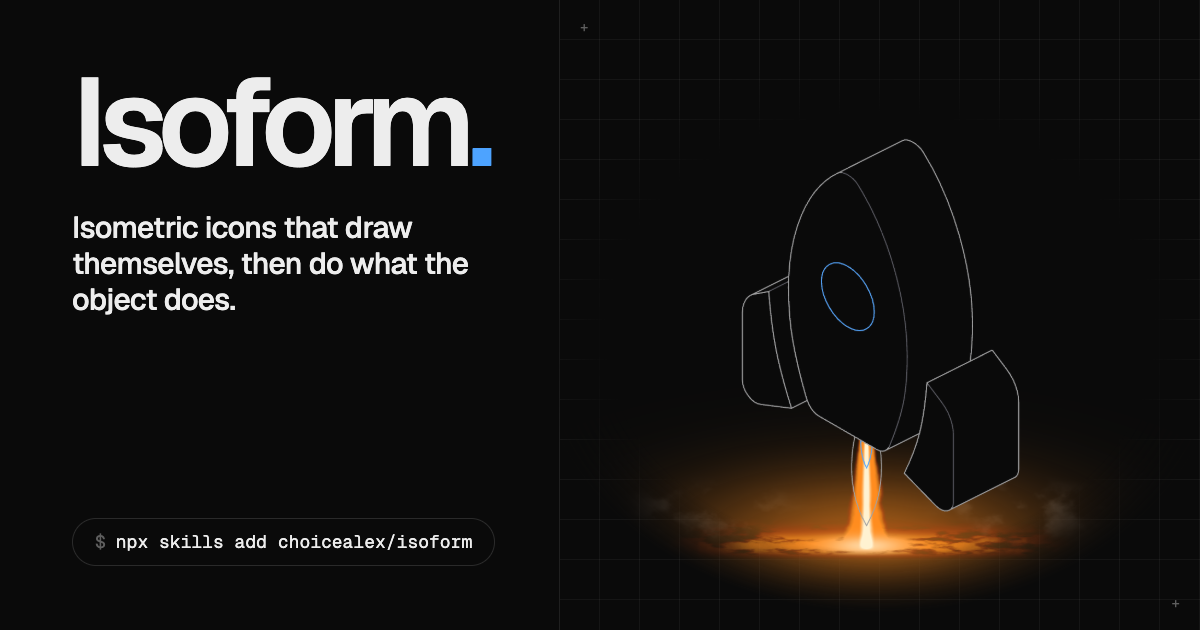
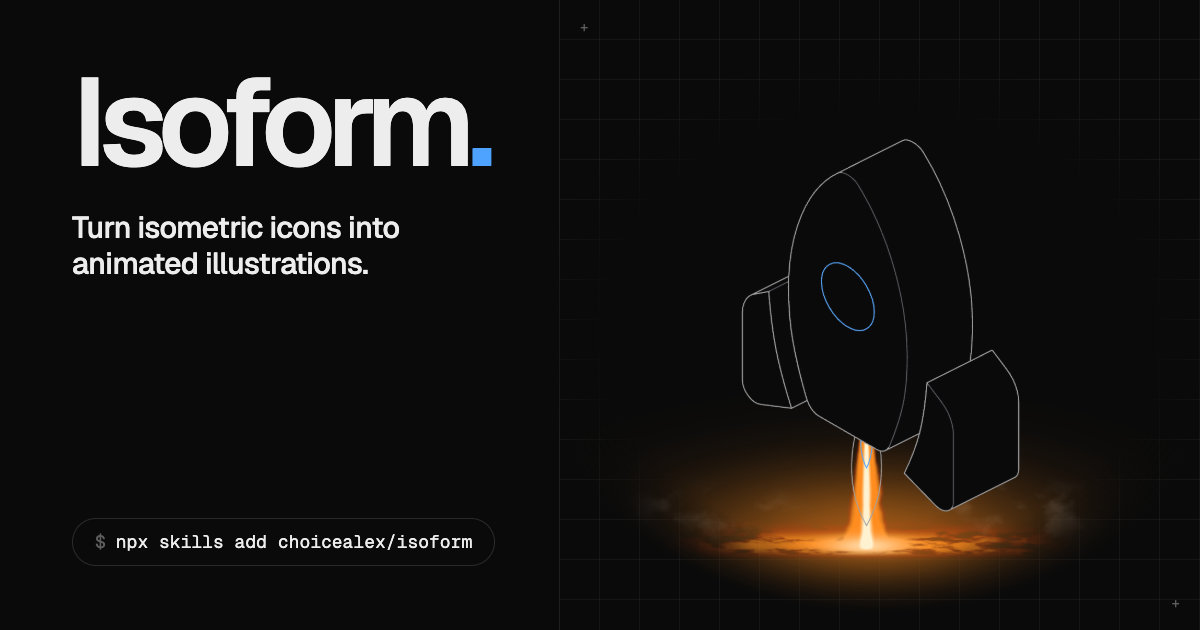
Hero copy: say what it does, plainly (owner)
"Isometric icons that draw themselves, then do what the object does" /
"taken apart along its own edges" read as confusing. Now:
"Turn isometric icons into animated illustrations." /
"An agent skill for the 1,007 free Isocons. Name an icon, get one HTML
file that plays." Link preview card and its alt text updated to match.
Checked at 1512 and 390 wide, no horizontal scroll.

Changed region(s): [[0.0617, 0.3317, 0.4008, 0.5127]]

diff --git a/site/app/page.tsx b/site/app/page.tsx
@@ -50,10 +50,10 @@ export default function Home() {
               Isoform<span className="text-accent">.</span>
             </h1>
             <p className="mt-8 max-w-[26rem] text-[clamp(1.25rem,1.7vw,1.6rem)] leading-[1.2] font-medium tracking-[-0.02em] text-balance">
-              Isometric icons that draw themselves, then do what the object does.
+              Turn isometric icons into animated illustrations.
             </p>
             <p className="mt-4 max-w-[26rem] text-[15px] text-pretty text-muted">
-              An agent skill. Name one of the 1,007 Isocons; it is taken apart along its own edges and handed back as one HTML file that plays.
+              An agent skill for the 1,007 free Isocons. Name an icon, get one HTML file that plays.
             </p>
           </div>
           <div className="grid gap-3">
